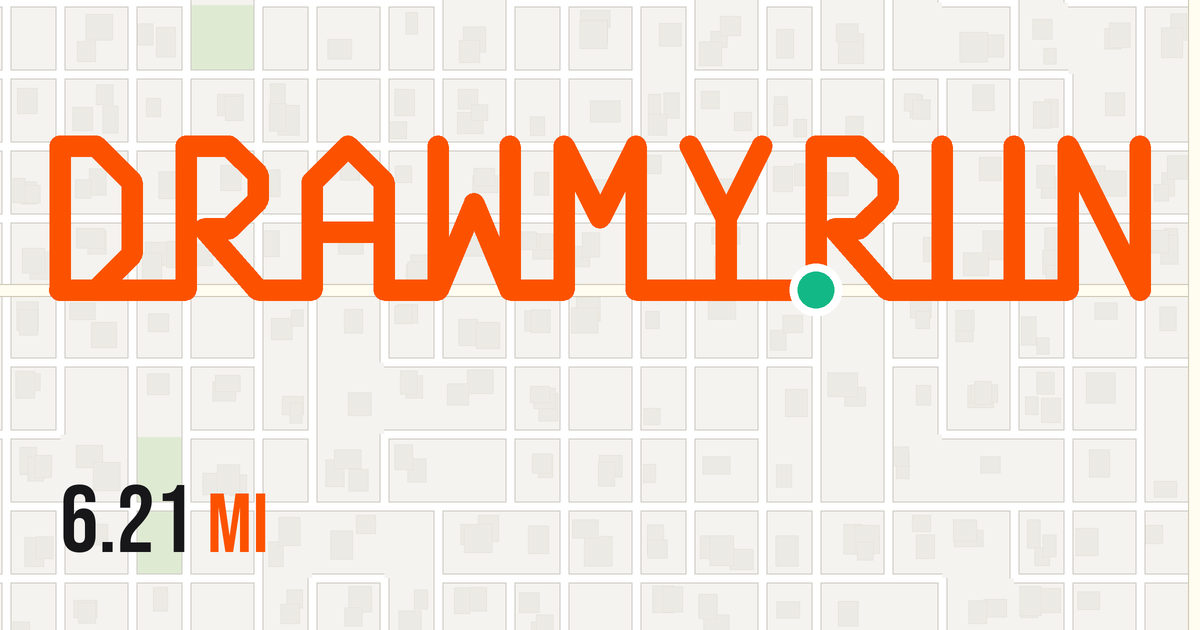
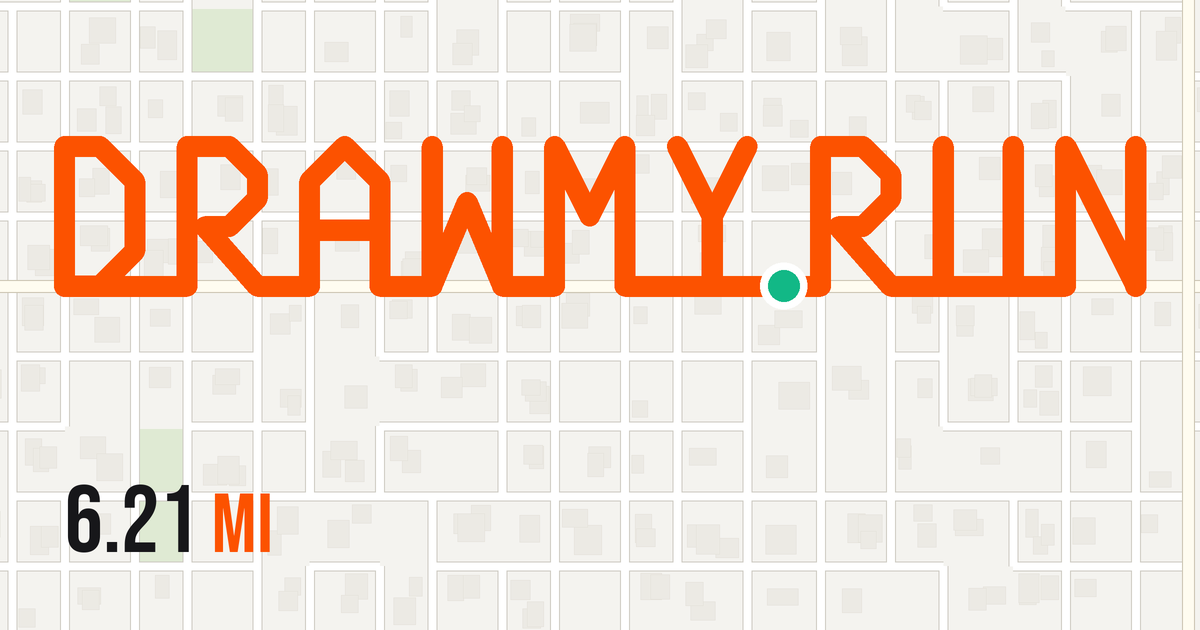
The dot between Y and R: the period of drawmy.run, standing on the etched letters, and off along DRAWMY on a hover or a tap
The green start dot stood at the foot of RUN's R. It stands on the
baseline between Y and R now, in the gap the route retraces there, so
the mark reads drawmy.run; the gap is opened from a unit and a half to
just over two, so the dot sits clear of both letters. The same everywhere
the mark is drawn: the header, the bib's stub, the GIF's caption band and
the social card, whose town's streets now stand at the letters' actual
edges.

In the header the dot is no longer cut into the deck with the letters: it
stands on top of them, a lamp on the deck with a small shadow under it.
And a pointer over the mark, or a tap on a phone, sends the dot off along
the route through DRAWMY, from the D's foot through every letter to the
Y, and back to its place before the R, easing away and easing in over
two and a half seconds; it will not set off again until it is home.

Claude-Session: https://claude.ai/code/session_01Dmg3qgF2RMqA8VqrgFUq5h

diff --git a/web/src/lib/wordmark.ts b/web/src/lib/wordmark.ts
@@ -1,18 +1,24 @@
 // The wordmark as a run: DRAWMYRUN in block letters on a lattice, two units
-// wide and four tall, set three and a half apart so they read apart, drawn by one route line that joins the letters along
+// wide and four tall, set three and a half apart so they read apart (a
+// little more between Y and R, where the green start dot stands on the
+// baseline as the period of drawmy.run), drawn by one route line that joins the letters along
 // the baseline and retraces where a runner would, and the green start dot
 // standing at the foot of RUN's R as the period. One path, in lattice units;
 // the header, the bib, the GIF's caption band and the social card all draw it.
-export const WORDMARK_D = "M0.00 4L0.00 0L1.00 0L2.00 1L2.00 3L1.00 4L0.00 4L2.00 4L3.50 4L3.50 0L4.70 0L5.50 0.8L5.50 1.5L4.70 2.3L4.00 2.3L5.50 4L7.00 4L7.00 1L8.00 0L9.00 1L9.00 2.4L7.00 2.4L9.00 2.4L9.00 4L10.50 4L10.50 0L10.50 4L11.50 1.6L12.50 4L12.50 0L12.50 4L14.00 4L14.00 0L15.00 2L16.00 0L16.00 4L17.50 4L18.50 4L18.50 2L17.50 0L18.50 2L19.50 0L18.50 2L18.50 4L19.50 4L21.00 4L21.00 0L22.20 0L23.00 0.8L23.00 1.5L22.20 2.3L21.50 2.3L23.00 4L24.50 4L24.50 0L24.50 4L26.50 4L26.50 0L26.50 4L28.00 4L28.00 0L30.00 4L30.00 0L30.00 4";
+export const WORDMARK_D = "M0.00 4L0.00 0L1.00 0L2.00 1L2.00 3L1.00 4L0.00 4L2.00 4L3.50 4L3.50 0L4.70 0L5.50 0.8L5.50 1.5L4.70 2.3L4.00 2.3L5.50 4L7.00 4L7.00 1L8.00 0L9.00 1L9.00 2.4L7.00 2.4L9.00 2.4L9.00 4L10.50 4L10.50 0L10.50 4L11.50 1.6L12.50 4L12.50 0L12.50 4L14.00 4L14.00 0L15.00 2L16.00 0L16.00 4L17.50 4L18.50 4L18.50 2L17.50 0L18.50 2L19.50 0L18.50 2L18.50 4L19.50 4L21.60 4L21.60 0L22.80 0L23.60 0.8L23.60 1.5L22.80 2.3L22.10 2.3L23.60 4L25.10 4L25.10 0L25.10 4L27.10 4L27.10 0L27.10 4L28.60 4L28.60 0L30.60 4L30.60 0L30.60 4";
 // The same run as one filled outline (the stroke's outline, its retraces
 // joined), which is what is drawn: a stroke that goes back over itself
 // leaves little burrs at the joins at small sizes, an outline does not.
 // Made from WORDMARK_D and WORDMARK_STROKE with shapely (round caps and
 // joins); rings inside are the counters, so it is filled even-odd.
-export const WORDMARK_OUTLINE_D = "M1.039 -0.297L-0.039 -0.297L-0.078 -0.290L-0.150 -0.260L-0.212 -0.212L-0.260 -0.150L-0.290 -0.078L-0.300 0.000L-0.300 4.000L-0.290 4.078L-0.260 4.150L-0.238 4.183L-0.183 4.238L-0.150 4.260L-0.078 4.290L0.000 4.300L3.500 4.300L3.578 4.290L3.615 4.277L3.683 4.238L3.738 4.183L3.777 4.115L3.797 4.039L3.800 2.527L5.275 4.198L5.350 4.260L5.422 4.290L5.500 4.300L7.000 4.300L7.078 4.290L7.115 4.277L7.183 4.238L7.238 4.183L7.277 4.115L7.297 4.039L7.300 2.700L8.700 2.700L8.703 4.039L8.723 4.115L8.740 4.150L8.762 4.183L8.817 4.238L8.850 4.260L8.922 4.290L9.000 4.300L10.539 4.297L10.614 4.277L10.682 4.238L10.712 4.212L10.760 4.150L11.500 2.380L12.223 4.115L12.262 4.183L12.318 4.238L12.351 4.260L12.422 4.290L12.500 4.300L14.000 4.300L14.078 4.290L14.150 4.260L14.183 4.238L14.238 4.183L14.277 4.115L14.297 4.039L14.300 1.271L14.750 2.165L14.801 2.224L14.866 2.268L14.940 2.294L14.982 2.299L15.060 2.294L15.134 2.268L15.197 2.227L15.249 2.168L15.700 1.271L15.703 4.039L15.723 4.115L15.740 4.150L15.788 4.212L15.850 4.260L15.922 4.290L15.961 4.297L21.000 4.300L21.078 4.290L21.150 4.260L21.183 4.238L21.238 4.183L21.277 4.115L21.297 4.039L21.300 2.527L22.775 4.198L22.834 4.250L22.922 4.290L23.000 4.300L28.000 4.300L28.078 4.290L28.150 4.260L28.183 4.238L28.238 4.183L28.277 4.115L28.297 4.039L28.300 1.271L29.732 4.134L29.762 4.183L29.817 4.238L29.905 4.285L29.982 4.299L30.078 4.290L30.168 4.249L30.227 4.197L30.277 4.115L30.297 4.039L30.300 0.000L30.297 -0.039L30.277 -0.115L30.238 -0.183L30.183 -0.238L30.150 -0.260L30.078 -0.290L30.039 -0.297L29.961 -0.297L29.922 -0.290L29.885 -0.277L29.817 -0.238L29.762 -0.183L29.740 -0.150L29.723 -0.115L29.703 -0.039L29.700 2.729L28.249 -0.168L28.197 -0.227L28.131 -0.270L28.057 -0.295L27.979 -0.299L27.902 -0.284L27.832 -0.249L27.773 -0.197L27.740 -0.150L27.710 -0.078L27.700 0.000L27.700 3.700L26.800 3.700L26.797 -0.039L26.777 -0.115L26.760 -0.150L26.738 -0.183L26.683 -0.238L26.615 -0.277L26.578 -0.290L26.500 -0.300L26.422 -0.290L26.385 -0.277L26.317 -0.238L26.262 -0.183L26.240 -0.150L26.223 -0.115L26.203 -0.039L26.200 3.700L24.800 3.700L24.797 -0.039L24.777 -0.115L24.760 -0.150L24.738 -0.183L24.683 -0.238L24.615 -0.277L24.578 -0.290L24.500 -0.300L24.422 -0.290L24.385 -0.277L24.317 -0.238L24.262 -0.183L24.240 -0.150L24.223 -0.115L24.203 -0.039L24.200 3.700L23.135 3.700L22.165 2.600L22.239 2.597L22.315 2.577L22.383 2.538L22.412 2.512L23.212 1.712L23.238 1.683L23.277 1.615L23.297 1.539L23.300 1.500L23.300 0.800L23.290 0.722L23.260 0.650L23.212 0.588L22.412 -0.212L22.383 -0.238L22.315 -0.277L22.278 -0.290L22.200 -0.300L20.961 -0.297L20.885 -0.277L20.817 -0.238L20.762 -0.183L20.723 -0.115L20.703 -0.039L20.700 0.000L20.700 3.700L18.800 3.700L18.800 2.071L19.768 0.134L19.794 0.060L19.799 0.021L19.795 -0.057L19.770 -0.131L19.727 -0.197L19.668 -0.249L19.598 -0.284L19.521 -0.299L19.482 -0.299L19.405 -0.285L19.335 -0.250L19.276 -0.199L19.251 -0.168L18.500 1.329L17.768 -0.134L17.724 -0.199L17.665 -0.250L17.631 -0.270L17.595 -0.285L17.518 -0.299L17.479 -0.299L17.402 -0.284L17.332 -0.249L17.273 -0.197L17.230 -0.131L17.205 -0.057L17.201 0.021L17.216 0.098L18.200 2.071L18.200 3.700L16.300 3.700L16.299 -0.018L16.290 -0.078L16.270 -0.131L16.238 -0.183L16.199 -0.224L16.150 -0.260L16.098 -0.284L16.000 -0.300L15.922 -0.290L15.850 -0.260L15.788 -0.212L15.740 -0.150L15.000 1.329L14.268 -0.134L14.224 -0.199L14.183 -0.238L14.115 -0.277L14.039 -0.297L13.961 -0.297L13.902 -0.284L13.832 -0.249L13.773 -0.197L13.740 -0.150L13.710 -0.078L13.700 0.000L13.700 3.700L12.800 3.700L12.800 0.000L12.790 -0.078L12.760 -0.150L12.738 -0.183L12.683 -0.238L12.615 -0.277L12.539 -0.297L12.461 -0.297L12.422 -0.290L12.350 -0.260L12.288 -0.212L12.240 -0.150L12.223 -0.115L12.203 -0.039L12.200 2.500L11.759 1.449L11.713 1.388L11.651 1.341L11.578 1.310L11.501 1.300L11.423 1.310L11.351 1.340L11.288 1.387L11.241 1.449L10.800 2.500L10.800 0.000L10.790 -0.078L10.760 -0.150L10.738 -0.183L10.683 -0.238L10.615 -0.277L10.539 -0.297L10.461 -0.297L10.422 -0.290L10.350 -0.260L10.288 -0.212L10.240 -0.150L10.210 -0.078L10.200 0.000L10.200 3.700L9.300 3.700L9.300 1.000L9.297 0.961L9.277 0.885L9.238 0.817L9.212 0.788L8.183 -0.238L8.115 -0.277L8.039 -0.297L7.961 -0.297L7.885 -0.277L7.850 -0.260L7.788 -0.212L6.788 0.788L6.740 0.850L6.710 0.922L6.700 1.000L6.700 3.700L5.635 3.700L4.665 2.600L4.739 2.597L4.778 2.590L4.850 2.560L4.883 2.538L5.712 1.712L5.760 1.650L5.790 1.578L5.800 1.500L5.800 0.800L5.790 0.722L5.760 0.650L5.712 0.588L4.912 -0.212L4.850 -0.260L4.815 -0.277L4.778 -0.290L4.700 -0.300L3.500 -0.300L3.422 -0.290L3.350 -0.260L3.288 -0.212L3.262 -0.183L3.223 -0.115L3.210 -0.078L3.200 0.000L3.200 3.700L1.724 3.700L2.212 3.212L2.260 3.150L2.290 3.078L2.300 3.000L2.297 0.961L2.277 0.885L2.238 0.817L2.212 0.788L1.212 -0.212L1.150 -0.260L1.115 -0.277ZM0.876 0.300L1.700 1.124L1.700 2.876L0.876 3.700L0.300 3.700L0.300 0.300ZM5.200 1.376L4.576 2.000L3.979 2.001L3.885 2.023L3.833 2.051L3.800 2.077L3.800 0.300L4.576 0.300L5.200 0.924ZM7.300 1.124L8.000 0.424L8.700 1.124L8.700 2.100L7.300 2.100ZM22.700 0.924L22.700 1.376L22.076 2.000L21.479 2.001L21.385 2.023L21.333 2.051L21.300 2.077L21.300 0.300L22.076 0.300Z";
-export const WORDMARK_DOT = { x: 21, y: 4, r: 0.62 };
-export const WORDMARK_W = 30;          // the letters' width, in units
+export const WORDMARK_OUTLINE_D = "M1.039 -0.297L-0.039 -0.297L-0.078 -0.290L-0.150 -0.260L-0.212 -0.212L-0.260 -0.150L-0.290 -0.078L-0.300 0.000L-0.300 4.000L-0.290 4.078L-0.260 4.150L-0.238 4.183L-0.183 4.238L-0.150 4.260L-0.078 4.290L0.000 4.300L3.500 4.300L3.578 4.290L3.615 4.277L3.683 4.238L3.738 4.183L3.777 4.115L3.797 4.039L3.800 2.527L5.275 4.198L5.350 4.260L5.422 4.290L5.500 4.300L7.000 4.300L7.078 4.290L7.115 4.277L7.183 4.238L7.238 4.183L7.277 4.115L7.297 4.039L7.300 2.700L8.700 2.700L8.703 4.039L8.723 4.115L8.740 4.150L8.762 4.183L8.817 4.238L8.850 4.260L8.922 4.290L9.000 4.300L10.539 4.297L10.614 4.277L10.682 4.238L10.712 4.212L10.760 4.150L11.500 2.380L12.223 4.115L12.262 4.183L12.318 4.238L12.351 4.260L12.422 4.290L12.500 4.300L14.000 4.300L14.078 4.290L14.150 4.260L14.183 4.238L14.238 4.183L14.277 4.115L14.297 4.039L14.300 1.271L14.750 2.165L14.801 2.224L14.866 2.268L14.940 2.294L14.982 2.299L15.060 2.294L15.134 2.268L15.197 2.227L15.249 2.168L15.700 1.271L15.703 4.039L15.723 4.115L15.740 4.150L15.788 4.212L15.850 4.260L15.922 4.290L15.961 4.297L21.600 4.300L21.678 4.290L21.750 4.260L21.783 4.238L21.838 4.183L21.877 4.115L21.897 4.039L21.900 2.527L23.375 4.198L23.434 4.250L23.522 4.290L23.600 4.300L28.600 4.300L28.678 4.290L28.750 4.260L28.783 4.238L28.838 4.183L28.877 4.115L28.897 4.039L28.900 1.271L30.332 4.134L30.362 4.183L30.417 4.238L30.505 4.285L30.582 4.299L30.678 4.290L30.768 4.249L30.827 4.197L30.877 4.115L30.897 4.039L30.900 0.000L30.897 -0.039L30.877 -0.115L30.838 -0.183L30.783 -0.238L30.750 -0.260L30.678 -0.290L30.639 -0.297L30.561 -0.297L30.522 -0.290L30.485 -0.277L30.417 -0.238L30.362 -0.183L30.340 -0.150L30.323 -0.115L30.303 -0.039L30.300 2.729L28.849 -0.168L28.797 -0.227L28.731 -0.270L28.657 -0.295L28.579 -0.299L28.502 -0.284L28.432 -0.249L28.373 -0.197L28.340 -0.150L28.310 -0.078L28.300 0.000L28.300 3.700L27.400 3.700L27.397 -0.039L27.377 -0.115L27.360 -0.150L27.338 -0.183L27.283 -0.238L27.215 -0.277L27.178 -0.290L27.100 -0.300L27.022 -0.290L26.985 -0.277L26.917 -0.238L26.862 -0.183L26.840 -0.150L26.823 -0.115L26.803 -0.039L26.800 3.700L25.400 3.700L25.397 -0.039L25.377 -0.115L25.360 -0.150L25.338 -0.183L25.283 -0.238L25.215 -0.277L25.178 -0.290L25.100 -0.300L25.022 -0.290L24.985 -0.277L24.917 -0.238L24.862 -0.183L24.840 -0.150L24.823 -0.115L24.803 -0.039L24.800 3.700L23.735 3.700L22.765 2.600L22.839 2.597L22.915 2.577L22.983 2.538L23.012 2.512L23.812 1.712L23.838 1.683L23.877 1.615L23.897 1.539L23.900 1.500L23.900 0.800L23.890 0.722L23.860 0.650L23.812 0.588L23.012 -0.212L22.983 -0.238L22.915 -0.277L22.878 -0.290L22.800 -0.300L21.561 -0.297L21.485 -0.277L21.417 -0.238L21.362 -0.183L21.323 -0.115L21.303 -0.039L21.300 0.000L21.300 3.700L18.800 3.700L18.800 2.071L19.768 0.134L19.794 0.060L19.799 0.021L19.795 -0.057L19.770 -0.131L19.727 -0.197L19.668 -0.249L19.598 -0.284L19.521 -0.299L19.482 -0.299L19.405 -0.285L19.335 -0.250L19.276 -0.199L19.251 -0.168L18.500 1.329L17.768 -0.134L17.724 -0.199L17.665 -0.250L17.631 -0.270L17.595 -0.285L17.518 -0.299L17.479 -0.299L17.402 -0.284L17.332 -0.249L17.273 -0.197L17.230 -0.131L17.205 -0.057L17.201 0.021L17.216 0.098L18.200 2.071L18.200 3.700L16.300 3.700L16.299 -0.018L16.290 -0.078L16.270 -0.131L16.238 -0.183L16.199 -0.224L16.150 -0.260L16.098 -0.284L16.000 -0.300L15.922 -0.290L15.850 -0.260L15.788 -0.212L15.740 -0.150L15.000 1.329L14.268 -0.134L14.224 -0.199L14.183 -0.238L14.115 -0.277L14.039 -0.297L13.961 -0.297L13.902 -0.284L13.832 -0.249L13.773 -0.197L13.740 -0.150L13.710 -0.078L13.700 0.000L13.700 3.700L12.800 3.700L12.800 0.000L12.790 -0.078L12.760 -0.150L12.738 -0.183L12.683 -0.238L12.615 -0.277L12.539 -0.297L12.461 -0.297L12.422 -0.290L12.350 -0.260L12.288 -0.212L12.240 -0.150L12.223 -0.115L12.203 -0.039L12.200 2.500L11.759 1.449L11.713 1.388L11.651 1.341L11.578 1.310L11.501 1.300L11.423 1.310L11.351 1.340L11.288 1.387L11.241 1.449L10.800 2.500L10.800 0.000L10.790 -0.078L10.760 -0.150L10.738 -0.183L10.683 -0.238L10.615 -0.277L10.539 -0.297L10.461 -0.297L10.422 -0.290L10.350 -0.260L10.288 -0.212L10.240 -0.150L10.210 -0.078L10.200 0.000L10.200 3.700L9.300 3.700L9.300 1.000L9.297 0.961L9.277 0.885L9.238 0.817L9.212 0.788L8.183 -0.238L8.115 -0.277L8.039 -0.297L7.961 -0.297L7.885 -0.277L7.850 -0.260L7.788 -0.212L6.788 0.788L6.740 0.850L6.710 0.922L6.700 1.000L6.700 3.700L5.635 3.700L4.665 2.600L4.739 2.597L4.778 2.590L4.850 2.560L4.883 2.538L5.712 1.712L5.760 1.650L5.790 1.578L5.800 1.500L5.800 0.800L5.790 0.722L5.760 0.650L5.712 0.588L4.912 -0.212L4.850 -0.260L4.815 -0.277L4.778 -0.290L4.700 -0.300L3.500 -0.300L3.422 -0.290L3.350 -0.260L3.288 -0.212L3.262 -0.183L3.223 -0.115L3.210 -0.078L3.200 0.000L3.200 3.700L1.724 3.700L2.212 3.212L2.260 3.150L2.290 3.078L2.300 3.000L2.297 0.961L2.277 0.885L2.238 0.817L2.212 0.788L1.212 -0.212L1.150 -0.260L1.115 -0.277ZM0.876 0.300L1.700 1.124L1.700 2.876L0.876 3.700L0.300 3.700L0.300 0.300ZM5.200 1.376L4.576 2.000L3.979 2.001L3.885 2.023L3.833 2.051L3.800 2.077L3.800 0.300L4.576 0.300L5.200 0.924ZM7.300 1.124L8.000 0.424L8.700 1.124L8.700 2.100L7.300 2.100ZM23.300 0.924L23.300 1.376L22.676 2.000L22.079 2.001L21.985 2.023L21.933 2.051L21.900 2.077L21.900 0.300L22.676 0.300Z";
+export const WORDMARK_DOT = { x: 20.55, y: 4, r: 0.56 };
+export const WORDMARK_W = 30.6;          // the letters' width, in units
 export const WORDMARK_H = 4;
+// where each letter starts, along the baseline: three and a half apart, a little more between Y and R for the dot
+export const WORDMARK_LETTERS = [0, 3.5, 7, 10.5, 14, 17.5, 21.6, 25.1, 28.6];
+// the dot's run for the header's easter egg: the route through DRAWMY to its place, in the dot's own frame
+export const WORDMARK_DOT_RUN = "M-20.55 0.00L-20.55 -4.00L-19.55 -4.00L-18.55 -3.00L-18.55 -1.00L-19.55 0.00L-20.55 0.00L-18.55 0.00L-17.05 0.00L-17.05 -4.00L-15.85 -4.00L-15.05 -3.20L-15.05 -2.50L-15.85 -1.70L-16.55 -1.70L-15.05 0.00L-13.55 0.00L-13.55 -3.00L-12.55 -4.00L-11.55 -3.00L-11.55 -1.60L-13.55 -1.60L-11.55 -1.60L-11.55 0.00L-10.05 0.00L-10.05 -4.00L-10.05 0.00L-9.05 -2.40L-8.05 0.00L-8.05 -4.00L-8.05 0.00L-6.55 0.00L-6.55 -4.00L-5.55 -2.00L-4.55 -4.00L-4.55 0.00L-3.05 0.00L-2.05 0.00L-2.05 -2.00L-3.05 -4.00L-2.05 -2.00L-1.05 -4.00L-2.05 -2.00L-2.05 0.00L-1.05 0.00L0.00 0.00";
 export const WORDMARK_STROKE = 0.6;
 // The box round the mark: the line's half width and a little air on every
 // side, and below, the start dot and its ring whole (it stands on the

diff --git a/web/src/components/Wordmark.tsx b/web/src/components/Wordmark.tsx
@@ -1,17 +1,33 @@
-import { useId } from "react";
-import { WORDMARK_DOT, WORDMARK_OUTLINE_D, WORDMARK_VIEWBOX } from "@/lib/wordmark";
+import { useId, useRef } from "react";
+import { WORDMARK_DOT, WORDMARK_DOT_RUN, WORDMARK_OUTLINE_D, WORDMARK_VIEWBOX } from "@/lib/wordmark";
 
-/** The wordmark: DRAWMYRUN as a run, the route in orange and the start dot
- *  green with its ring, sized by height. Etched, it is cut into the deck:
- *  the paint lies in a recess, a little darker for it, with the recess's
- *  upper wall shadowing its top edge inside and a line of the deck above,
- *  and the recess's lower lip catching the light below. Printed, it is
- *  simply the mark, as on the bib's paper. */
-export default function Wordmark({ height, className, title = "drawmy.run", etched = false }: { height: number; className?: string; title?: string; etched?: boolean }) {
-  const id = useId();
-  const cut = `etch-${id.replace(/[^a-zA-Z0-9]/g, "")}`;
+/** The wordmark: DRAWMYRUN as a run, the route in orange and the green
+ *  start dot with its ring standing on the baseline between Y and R, the
+ *  period of drawmy.run; sized by height. Etched, the letters are cut into
+ *  the deck (the paint in a recess, its top edge in the recess wall's
+ *  shadow, the deck's edge above, the lip lit below) and the dot stands on
+ *  top of them, a lamp on the deck rather than paint in the cut. Printed, it
+ *  is simply the mark, as on the bib's paper. With `run`, a pointer over the
+ *  mark (or a tap) sends the dot off along the route through DRAWMY, back
+ *  to its place before the R. */
+export default function Wordmark({ height, className, title = "drawmy.run", etched = false, run = false }: { height: number; className?: string; title?: string; etched?: boolean; run?: boolean }) {
+  const id = useId().replace(/[^a-zA-Z0-9]/g, "");
+  const cut = `etch-${id}`;
+  const motion = useRef<SVGAnimateMotionElement>(null);
+  const go = () => {
+    const m = motion.current as (SVGAnimateMotionElement & { beginElement?: () => void }) | null;
+    m?.beginElement?.();
+  };
   return (
-    <svg className={className} viewBox={WORDMARK_VIEWBOX} height={height} role="img" aria-label={title}>
+    <svg
+      className={className}
+      viewBox={WORDMARK_VIEWBOX}
+      height={height}
+      role="img"
+      aria-label={title}
+      onMouseEnter={run ? go : undefined}
+      onClick={run ? go : undefined}
+    >
       {etched && (
         <defs>
           {/* in the mark's own units: a pixel is about a fifth of a unit at the header's size */}
@@ -26,7 +42,7 @@ export default function Wordmark({ height, className, title = "drawmy.run", etch
             <feComposite in="down" in2="SourceAlpha" operator="out" result="lipA" />
             <feFlood floodColor="#fff" floodOpacity="0.22" result="white" />
             <feComposite in="white" in2="lipA" operator="in" result="lip" />
-            {/* the paint's own top edge in the wall's shadow, inside the cut */}
+            {/* the paint's own top edge in the wall's shadow, inside the cut: a thin line, so the paint stays bright */}
             <feOffset in="SourceAlpha" dy="0.2" result="down2" />
             <feComposite in="SourceAlpha" in2="down2" operator="out" result="shadeA" />
             <feGaussianBlur in="shadeA" stdDeviation="0.06" result="shadeB" />
@@ -40,12 +56,19 @@ export default function Wordmark({ height, className, title = "drawmy.run", etch
               <feMergeNode in="shade" />
             </feMerge>
           </filter>
+          {/* the dot stands proud of the deck: a little shadow under it */}
+          <filter id={`lamp-${id}`} x="-40%" y="-40%" width="180%" height="200%">
+            <feDropShadow dx="0" dy="0.12" stdDeviation="0.06" floodColor="#000" floodOpacity="0.7" />
+          </filter>
         </defs>
       )}
-      <g filter={etched ? `url(#${cut})` : undefined}>
-        <path d={WORDMARK_OUTLINE_D} fill={etched ? "#fa5202" : "#fc5200"} fillRule="evenodd" />
-        <circle cx={WORDMARK_DOT.x} cy={WORDMARK_DOT.y} r={WORDMARK_DOT.r} fill={etched ? "#11a97b" : "#12b886"} stroke={etched ? "#e6e2d8" : "#f6f3ec"} strokeWidth={0.22} />
-      </g>
+      <path d={WORDMARK_OUTLINE_D} fill={etched ? "#fa5202" : "#fc5200"} fillRule="evenodd" filter={etched ? `url(#${cut})` : undefined} />
+      <circle cx={WORDMARK_DOT.x} cy={WORDMARK_DOT.y} r={WORDMARK_DOT.r} fill="#12b886" stroke="#f6f3ec" strokeWidth={0.22} filter={etched ? `url(#lamp-${id})` : undefined}>
+        {run && (
+          /* the run: along the route through DRAWMY (in the dot's own frame, so it ends where it stands), easing off the line and back onto it */
+          <animateMotion ref={motion} path={WORDMARK_DOT_RUN} begin="indefinite" dur="2.6s" calcMode="spline" keyTimes="0;1" keySplines="0.35 0 0.25 1" restart="whenNotActive" />
+        )}
+      </circle>
     </svg>
   );
 }

diff --git a/web/src/components/RunMapper.tsx b/web/src/components/RunMapper.tsx
@@ -638,7 +638,7 @@ export default function RunMapper() {
         <header className="flex items-center justify-between gap-3 px-6 pt-3 pb-2.5">
           {/* The wordmark, and nothing else: drawmy.run as a run, one orange route through the letters, the green start dot at the foot of RUN's R for the period. */}
           <h1 className="logo">
-            <Wordmark height={28} className="logo-mark" etched />
+            <Wordmark height={28} className="logo-mark" etched run />
           </h1>
           <span className="sr-only" role="status">{statusWord}</span>
           <button
